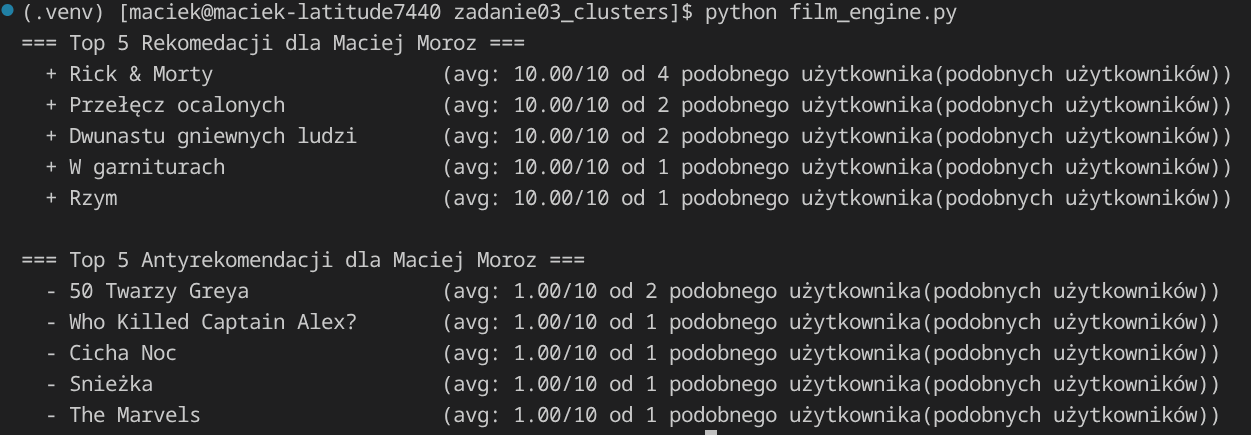
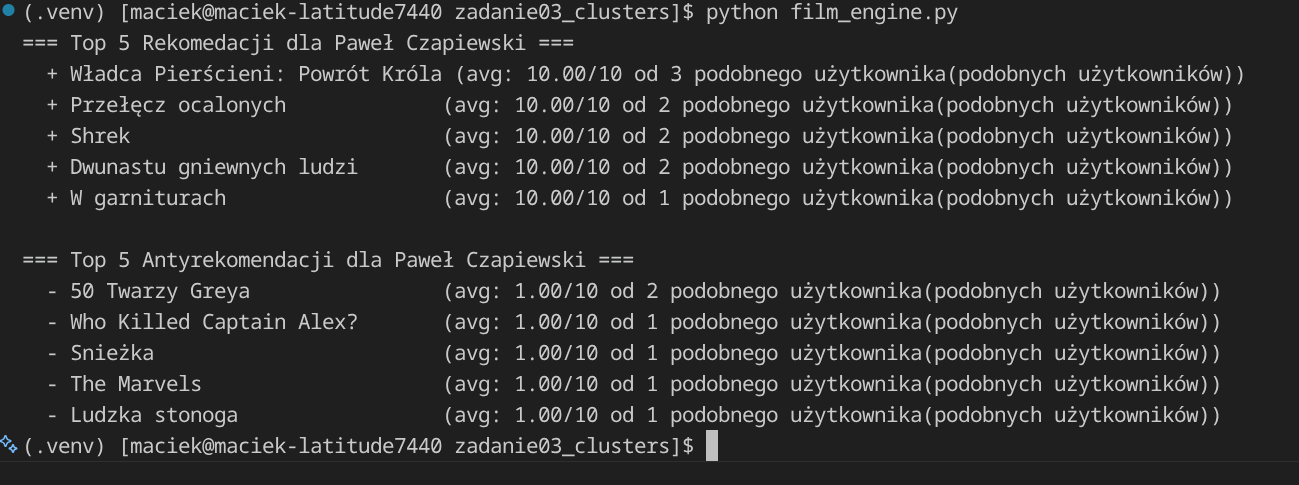
doc fix3

Changed region(s): [[0.0, 0.0, 0.9976, 0.4782], [0.0, 0.7172, 0.9664, 1.0], [0.0, 0.508, 0.9664, 0.6874]]

diff --git a/zadanie03_clusters/film_engine.py b/zadanie03_clusters/film_engine.py
@@ -199,7 +199,7 @@ if __name__ == "__main__":
     with open("output2.json", "r", encoding="utf-8") as f:
         dataset = json.load(f)
 
-    person = "Pawel Kozlowski"
+    person = "Paweł Czapiewski"
     recs, antirecs = get_recommendations(dataset, target_user=person, k=4, top_n=5)
 
     print(f"=== Top 5 Rekomedacji dla {person} ===")
